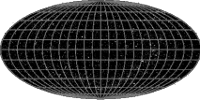
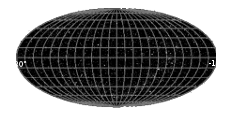
Update Mollweide grid image(add padding for better layout)

diff --git a/app/js/MollweideViewer.js b/app/js/MollweideViewer.js
@@ -78,24 +78,20 @@ var MollweideViewer = function(options) {
     // Init options
     var globe = options.globe;
     var navigation = options.navigation;
+    var halfPaddingX = 16;
+    var halfPaddingY = 8;
 
-    // Image background dimensions
-    var halfHeight;
-    var halfWidth;
+    // Grid background dimensions
+    var halfHeight = 50;
+    var halfWidth = 100;
 
     // Interaction parameters
     var _lastMouseX = -1;
     var _lastMouseY = -1;
     var dragging = false;
 
-    // Fov grid
+    // Level of tesselation to represent fov
     var tesselation = 9; // Must be >= 2
-    var points = [];
-    points.color = "rgb(255,0,0)";
-    for ( var i=0; i<tesselation*tesselation; i++ )
-    {
-        points.push(new Point());
-    }
 
     // Center of fov
     var center3d = new Point({
@@ -109,8 +105,6 @@ var MollweideViewer = function(options) {
     var imageObj = new Image();
     imageObj.onload = function() {
         context.drawImage(imageObj, 0, 0);
-        halfHeight = imageObj.height / 2;
-        halfWidth = imageObj.width / 2;
         updateMollweideFov();
     };
     //imageObj.src = 'css/images/Milky_Way_infrared_200x100.png';
@@ -119,7 +113,7 @@ var MollweideViewer = function(options) {
     /**********************************************************************************************/
 
     /**
-     *  Compute mollweide position for the given 3D position
+     *  Compute mollweide position for given 3D position
      */
     function computeMollweidePosition( pos )
     {
@@ -137,9 +131,9 @@ var MollweideViewer = function(options) {
 
         // Transform to image space
         //    2.8: max x value in Mollweide projection
-        //    1.41: max y value in Mollweide projection
-        var x = -mollX * halfWidth/2.8 + halfWidth;
-        var y = -mollY * halfHeight/1.41 + halfHeight;
+        //    1.38: max y value in Mollweide projection
+        var x = -mollX * halfWidth/2.8 + halfWidth + halfPaddingX;
+        var y = -mollY * halfHeight/1.38 + halfHeight + halfPaddingY;
 
         return [x,y];
     }
@@ -147,7 +141,7 @@ var MollweideViewer = function(options) {
     /**********************************************************************************************/
 
     /**
-     *	Function updating the position of center of camera on mollweide element
+     *  Function updating the position of center of camera on mollweide element
      */
     function updateMollweideFov()
     {
@@ -156,7 +150,7 @@ var MollweideViewer = function(options) {
         context.drawImage(imageObj, 0, 0);
 
         // Draw fov
-        context.fillStyle = points.color;
+        context.fillStyle = "rgb(255,0,0)";
         var stepX = globe.renderContext.canvas.clientWidth/(tesselation - 1);
         var stepY = globe.renderContext.canvas.clientHeight/(tesselation - 1);
 
@@ -168,13 +162,9 @@ var MollweideViewer = function(options) {
                 // Height
                 var pos3d = globe.renderContext.get3DFromPixel(i*stepX,j*stepY);
                 var mPos = computeMollweidePosition( pos3d );
-                var point = points[i*tesselation+j];
-
-                point.x = mPos[0];
-                point.y = mPos[1];
 
                 // Draw on canvas 2d
-                context.fillRect(mPos[0] - point.size/2, mPos[1]-point.size/2, point.size,point.size);
+                context.fillRect(mPos[0], mPos[1], 2, 2);
             }
         }
 
@@ -185,7 +175,7 @@ var MollweideViewer = function(options) {
         center3d.y = mPos[1];
 
         // Draw on canvas 2d
-        context.fillRect(mPos[0] - center3d.size/2, mPos[1]-center3d.size/2, center3d.size,center3d.size);
+        context.fillRect(mPos[0] - center3d.size/2, mPos[1]-center3d.size/2, center3d.size, center3d.size);
 
     }
 
@@ -218,8 +208,8 @@ var MollweideViewer = function(options) {
         var offY = (event.offsetY) ? event.offsetY : (event.layerY - event.target.offsetTop);
 
         // Transform to Mollweide space
-        center3d.x = - ( offX - halfWidth ) * 2.8 / halfWidth;
-        center3d.y = - ( offY - halfHeight ) * 1.41 / halfHeight;
+        center3d.x = - ( offX - halfWidth - halfPaddingX ) * 2.8 / halfWidth;
+        center3d.y = - ( offY - halfHeight - halfPaddingY ) * 1.38 / halfHeight;
         
         // Transform to geographic coordinate system
         // http://mathworld.wolfram.com/MollweideProjection.html
@@ -244,6 +234,12 @@ var MollweideViewer = function(options) {
 
     // Show/hide mollweide projection
 	$('#slideArrow').on('click', function(){
+        /*$(this).parent().animate({
+            right: parseInt( $(this).parent().css('right') ) == 0 ?
+                -$(this).parent().outerWidth() + 10 :
+                0
+        });*/
+
 		if ( parseFloat($(this).parent().css('right')) < -100 )
 		{
 			// Slide left
@@ -252,7 +248,7 @@ var MollweideViewer = function(options) {
 		else
 		{
 			// Slide right
-			$(this).parent().animate({right: '-210px'}, 300);
+			$(this).parent().animate({right: '-241px'}, 300);
 		}
 	});
 

diff --git a/app/index.html b/app/index.html
@@ -53,11 +53,11 @@
 			</div>
 
 			<div style="pointer-events: auto; margin-top: 10px;" id="mollweideDiv">
-				<div style="position: absolute; right: -210px; overflow: hidden;">
+				<div style="position: absolute; right: -241px; overflow: hidden;">
 					<span id="slideArrow" style="border: 1px solid orange; border-radius: 5px 0px 0px 5px; vertical-align: top; position: relative; display: inline-block;">
 						<img width='20px' height='20px' src="css/images/arrow.png"/>
 					</span>
-					<canvas id="mollweideProjection" class="noSelect" style="margin-left: -5px; display: inline-block; border: 1px solid orange; border-radius: 0px 10px 10px 10px;" width="200px" height="100px"></canvas>
+					<canvas id="mollweideProjection" class="noSelect" style="margin-left: -5px; display: inline-block; border: 1px solid orange; border-radius: 0px 10px 10px 10px;" width="232px" height="116px"></canvas>
 				</div>
 			</div>
 			
